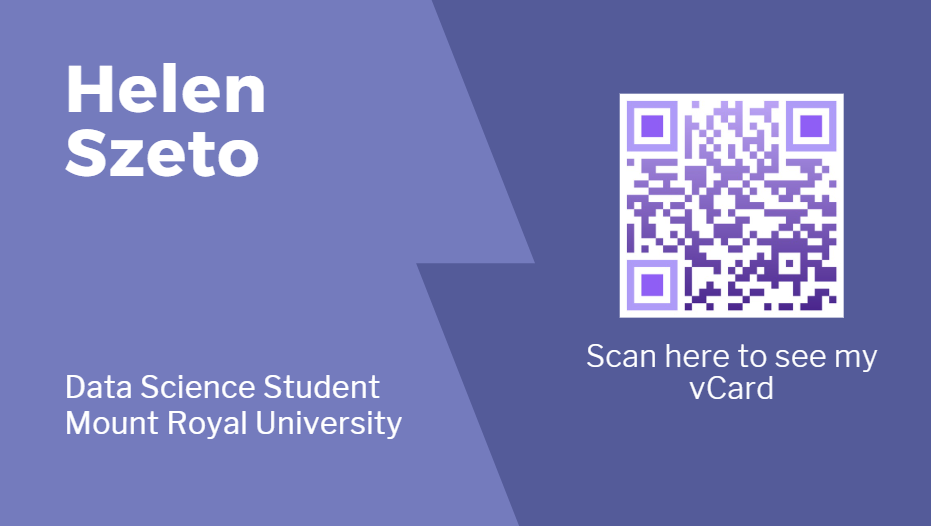
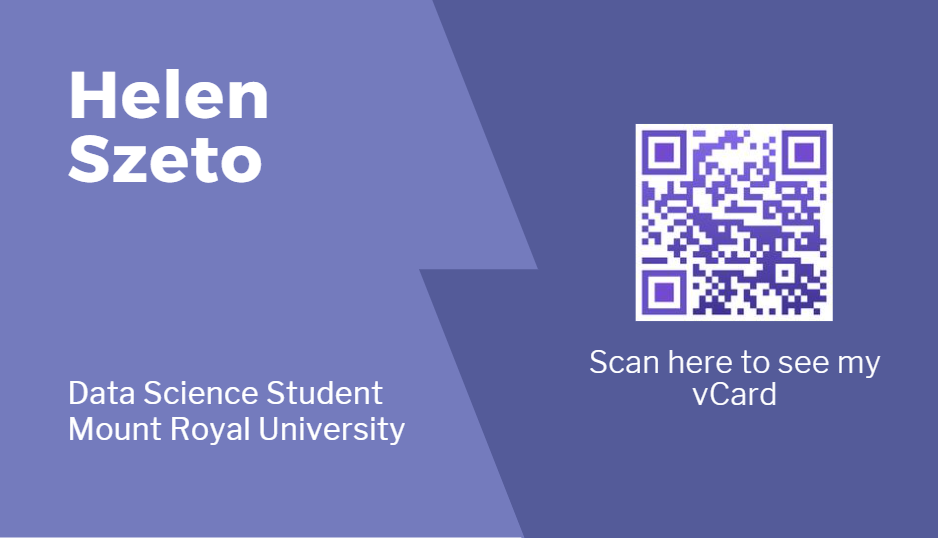
edited vcard

diff --git a/index.html b/index.html
@@ -73,9 +73,10 @@
             <img id="businesscard" src="images/HelenSzeto_businesscard.png"
                 alt="Image of my business card with QR code and email address" title="Business Card">
         </div>
-        <p>Click this to download my business card:</p>
-        <a href="/images/HelenSzeto_businesscard.png" download>
-            <button type="button" class="btn btn-light mb-5">Download</button>
+        <!--<p>Click this to view my vCard:</p>-->
+        <br>
+        <a href="https://scanned.page/p/CkO2aw" target="_blank">
+            <button type="button" class="btn btn-light mb-5">View vCard</button>
         </a>
 
 
